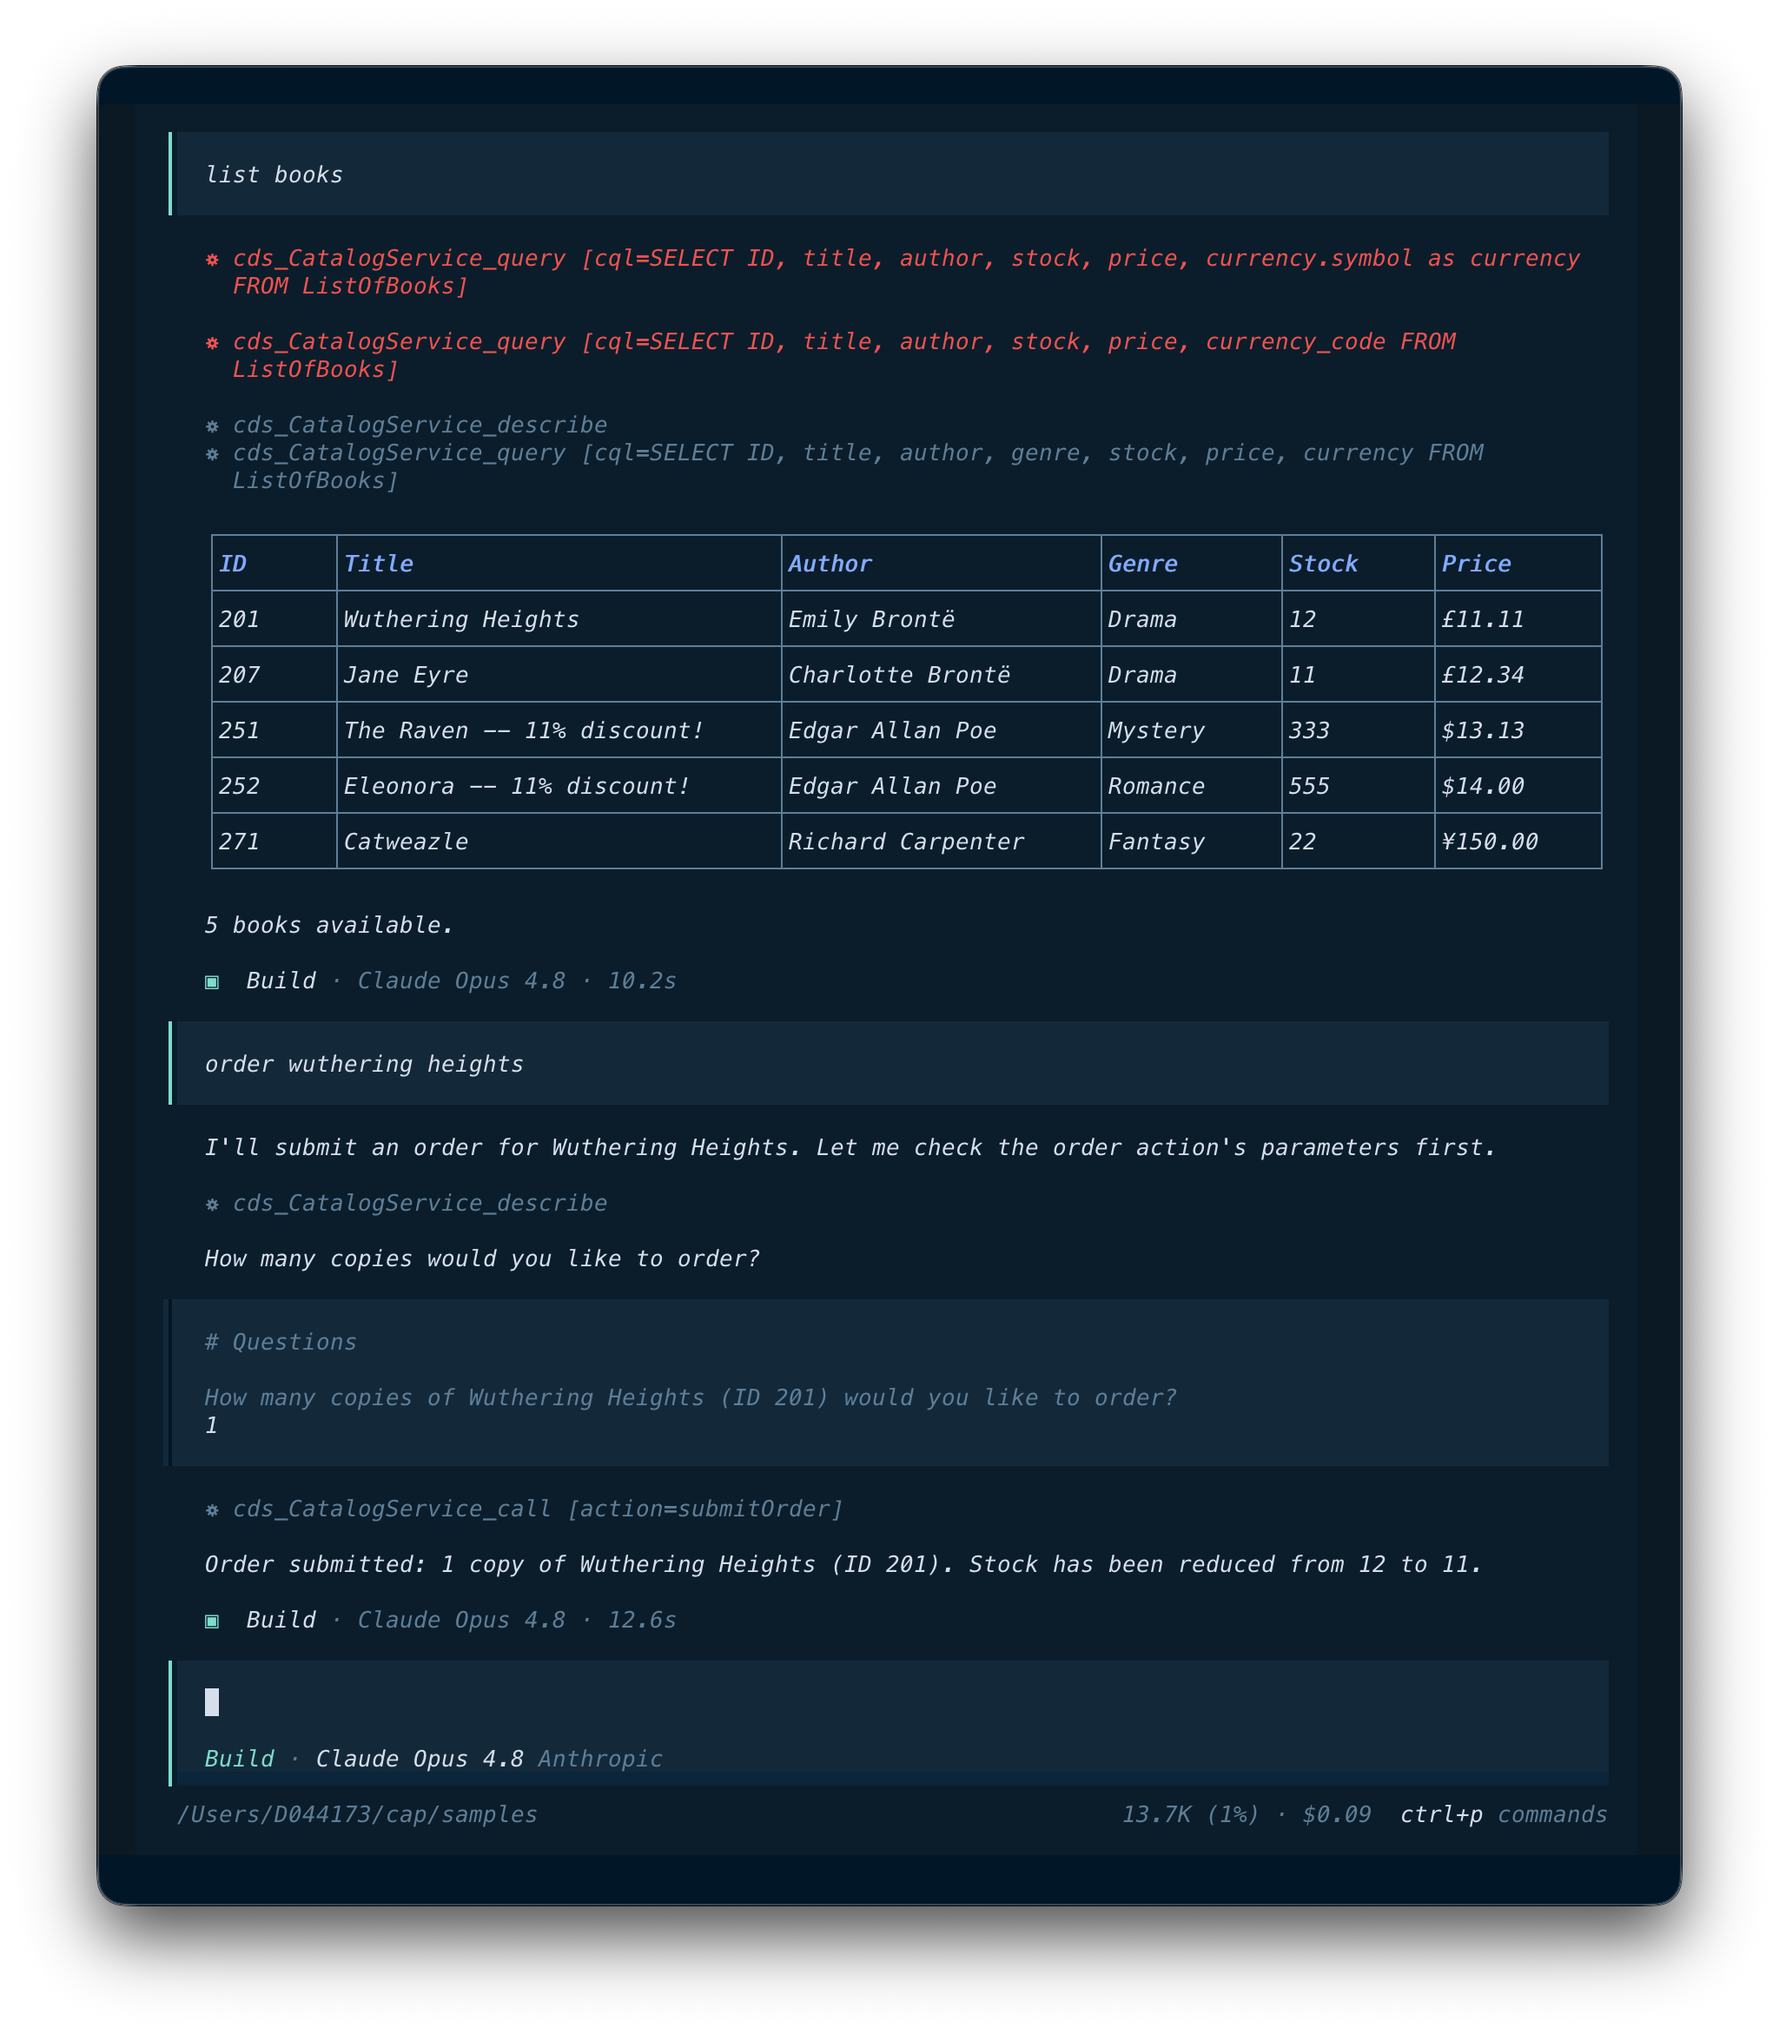
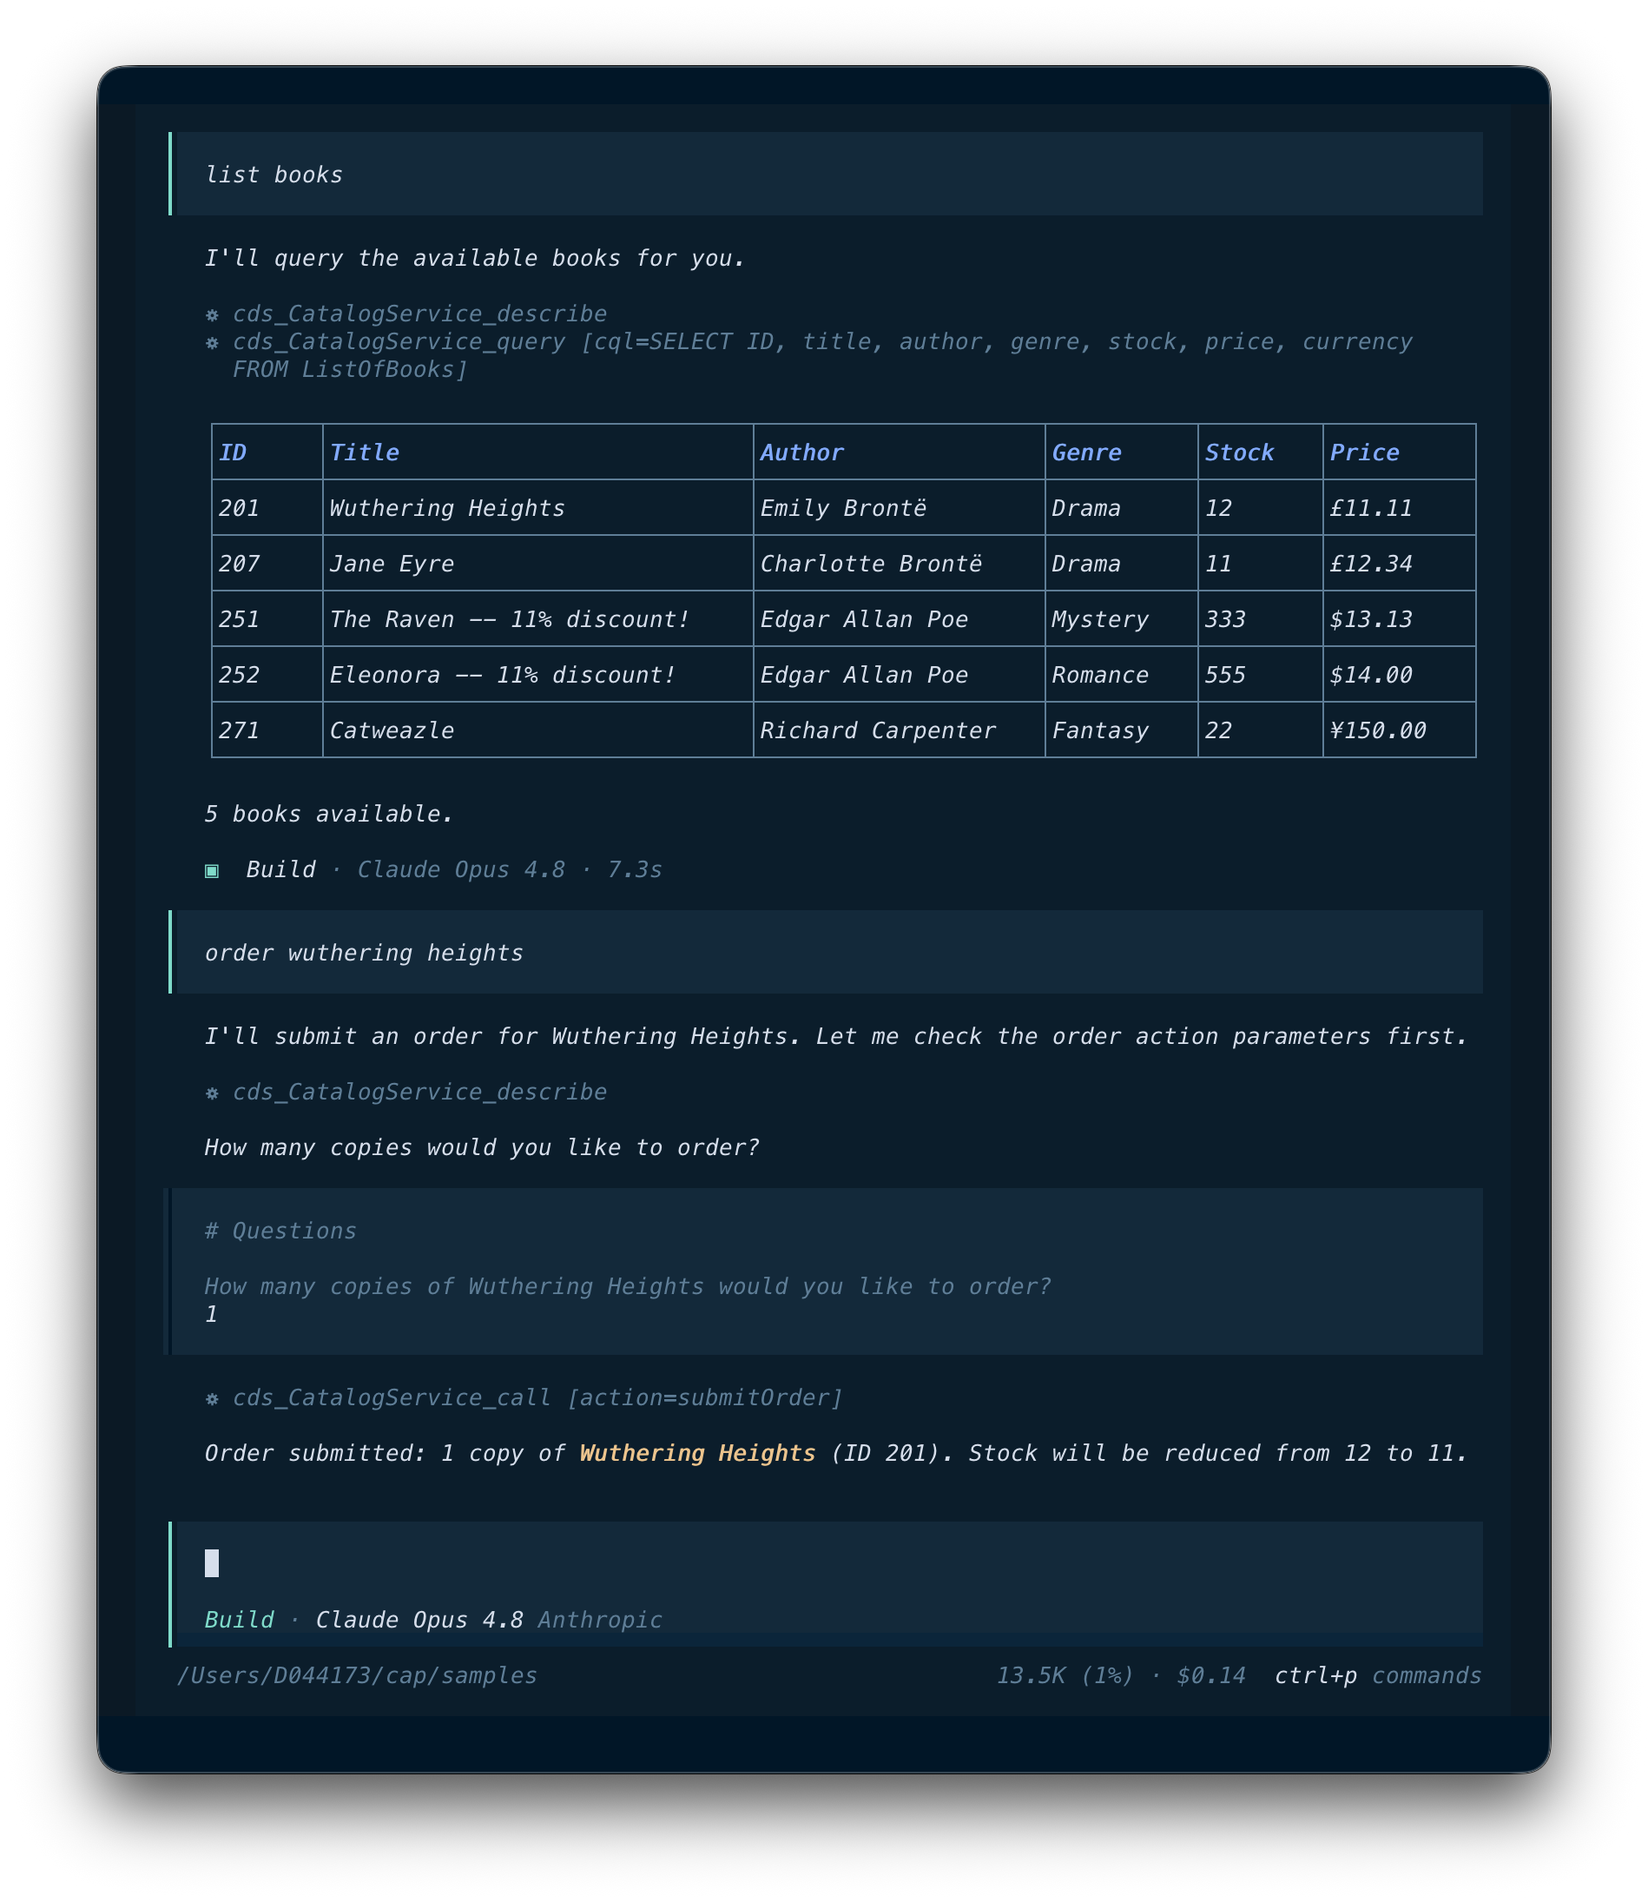
Fixed screenshots

diff --git a/guides/ai/mcp.md b/guides/ai/mcp.md
@@ -147,12 +147,11 @@ mvn cds:watch
 
 ### Using OpenCode, or alike
 
-Assumed you have [Claude Code](https://code.claude.com/docs/en/overview) or [Opencode](https://opencode.ai/) installed, start them in a secondary terminal:
+Assumed you have [Claude Code](https://code.claude.com/docs/en/overview) or [Opencode](https://opencode.ai/) installed, start either one in a secondary terminal, for example:
 
 ```shell
 opencode
 ```
-
 
 ::: details Installing Claude Code or OpenCode ...
 
@@ -172,6 +171,9 @@ code --install-extension anthropic.claude-code
 ```
 
 :::
+
+
+![OpenCode started initially](assets/opencode-start-screen.png){.ignore-dark}
 
 
 
@@ -199,7 +201,7 @@ You can also run `opencode web` to open the OpenCode web interface, which provid
 
 When we initially started OpenCode above, it indicated in the bottom line of the interface that there's (at least) one MCP server connected.
 
-![OpenCode started initially](assets/opencode-start-screen.png){.ignore-dark}
+![OpenCode status line showing connected MCP servers](assets/opencode-status-line.png){.ignore-dark}
 
 Enter `/status` in the OpenCode interface to see details, which should display the status of the connected MCP servers like this:
 
